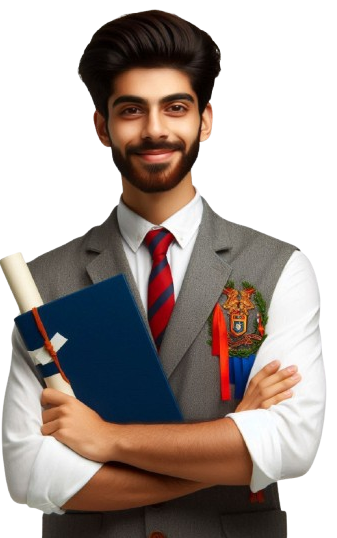
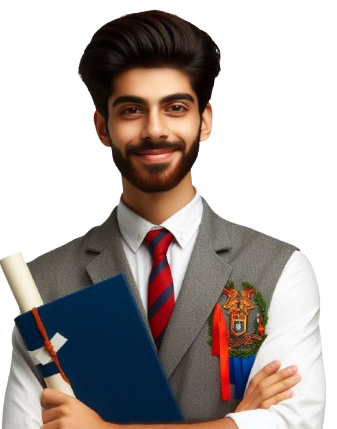
Add files via upload

diff --git a/index.html b/index.html
@@ -159,7 +159,7 @@ window._wpemojiSettings = {"baseUrl":"https:\/\/s.w.org\/images\/core\/emoji\/15
 			<div class="elementor-widget-wrap elementor-element-populated">
 						<div class="elementor-element elementor-element-2c443f22 elementor-widget elementor-widget-image" data-id="2c443f22" data-element_type="widget" data-widget_type="image.default">
 				<div class="elementor-widget-container">
-													<img fetchpriority="high" decoding="async" width="1080" height="1080" src="img/ai.png" class="attachment-full size-full wp-image-47" alt="" srcset="img/ai.png 1080w, img/ai.png 300w, img/ai.png 1024w, img/ai.png 150w, img/ai.png 768w" sizes="(max-width: 1080px) 100vw, 1080px" />													</div>
+													<img fetchpriority="high" decoding="async" width="1080" height="1080" src="https://i.ibb.co/0YKtB2b/model.png" class="attachment-full size-full wp-image-47" alt="" srcset="https://i.ibb.co/0YKtB2b/model.png 1080w, https://i.ibb.co/0YKtB2b/model.png 300w, https://i.ibb.co/0YKtB2b/model.png 1024w, https://i.ibb.co/0YKtB2b/model.png 150w, https://i.ibb.co/0YKtB2b/model.png 768w" sizes="(max-width: 1080px) 100vw, 1080px" />													</div>
 				</div>
 					</div>
 		</div>
@@ -174,7 +174,7 @@ window._wpemojiSettings = {"baseUrl":"https:\/\/s.w.org\/images\/core\/emoji\/15
 				<div class="elementor-element elementor-element-b3db787 eael-banner-button elementor-widget__width-auto elementor-widget elementor-widget-button" data-id="b3db787" data-element_type="widget" data-widget_type="button.default">
 				<div class="elementor-widget-container">
 					<div class="elementor-button-wrapper">
-			<a class="elementor-button elementor-button-link elementor-size-md" href="https://api.whatsapp.com/send/?phone=%2B919496466913&#038;text=🔍Hi%2C+we+want+to+book+a+demo+class&#038;type=phone_number&#038;app_absent=0">
+			<a class="elementor-button elementor-button-link elementor-size-md" href="https://api.whatsapp.com/send/?phone=%2B918807321683&#038;text=🔍Hi%2C+we+want+to+book+a+demo+class&#038;type=phone_number&#038;app_absent=0">
 						<span class="elementor-button-content-wrapper">
 									<span class="elementor-button-text">Book A DEMO</span>
 					</span>
@@ -190,12 +190,15 @@ window._wpemojiSettings = {"baseUrl":"https:\/\/s.w.org\/images\/core\/emoji\/15
 			<div class="elementor-widget-wrap elementor-element-populated">
 						<div class="elementor-element elementor-element-fdbddc3 elementor-widget elementor-widget-heading" data-id="fdbddc3" data-element_type="widget" data-widget_type="heading.default">
 				<div class="elementor-widget-container">
-			<span class="elementor-heading-title elementor-size-default">👉 Exclusively for Economics
-        .</span>		</div>
+			<span class="elementor-heading-title elementor-size-default">👉 Exclusively for Economics.</span>		</div>
 				</div>
+        <div class="elementor-element elementor-element-2036327 elementor-widget elementor-widget-heading" data-id="2036327" data-element_type="widget" data-widget_type="heading.default">
+          <div class="elementor-widget-container">
+        <span class="elementor-heading-title elementor-size-default">👉Live and recordes classes.</span>		</div>
+          </div>
 				<div class="elementor-element elementor-element-d91c891 elementor-widget elementor-widget-heading" data-id="d91c891" data-element_type="widget" data-widget_type="heading.default">
 				<div class="elementor-widget-container">
-			<span class="elementor-heading-title elementor-size-default">👉120+Results in the last three batches.</span>		</div>
+			<span class="elementor-heading-title elementor-size-default">👉120+ Successful results</span>		</div>
 				</div>
 				<div class="elementor-element elementor-element-f40e8f9 elementor-widget elementor-widget-heading" data-id="f40e8f9" data-element_type="widget" data-widget_type="heading.default">
 				<div class="elementor-widget-container">
@@ -205,10 +208,11 @@ window._wpemojiSettings = {"baseUrl":"https:\/\/s.w.org\/images\/core\/emoji\/15
 				<div class="elementor-widget-container">
 			<span class="elementor-heading-title elementor-size-default">👉Successful results in top universities.</span>		</div>
 				</div>
-				<div class="elementor-element elementor-element-2036327 elementor-widget elementor-widget-heading" data-id="2036327" data-element_type="widget" data-widget_type="heading.default">
-				<div class="elementor-widget-container">
-			<span class="elementor-heading-title elementor-size-default">👉Intelligent Personalised Mentorship.</span>		</div>
-				</div>
+        <div class="elementor-element elementor-element-f40e8f9 elementor-widget elementor-widget-heading" data-id="f40e8f9" data-element_type="widget" data-widget_type="heading.default">
+          <div class="elementor-widget-container">
+        <span class="elementor-heading-title elementor-size-default">👉Qualified faculties. </span>		</div>
+          </div>
+				
 					</div>
 		</div>
 					</div>
@@ -257,7 +261,7 @@ Trust</h2>		</div>
 				</div>
 					</div>
 				</div>
-		<!--<div class="elementor-element elementor-element-4374dd5 e-flex e-con-boxed e-con e-child" data-id="4374dd5" data-element_type="container">
+		<div class="elementor-element elementor-element-4374dd5 e-flex e-con-boxed e-con e-child" data-id="4374dd5" data-element_type="container">
 					<div class="e-con-inner">
 		<div class="elementor-element elementor-element-29ea0b8 e-grid e-con-boxed e-con e-child" data-id="29ea0b8" data-element_type="container">
 					<div class="e-con-inner">
@@ -267,25 +271,25 @@ Trust</h2>		</div>
 				</div>
 				<div class="elementor-element elementor-element-c7fc460 elementor-widget elementor-widget-heading" data-id="c7fc460" data-element_type="widget" data-widget_type="heading.default">
 				<div class="elementor-widget-container">
-			<h2 class="elementor-heading-title elementor-size-default">1500 + Teachers</h2>		</div>
+			<h2 class="elementor-heading-title elementor-size-default">2 + Teachers</h2>		</div>
 				</div>
 					</div>
 				</div>
 					</div>
-				</div>-->
-		<!--<div class="elementor-element elementor-element-3a309e8 e-grid e-con-boxed e-con e-child" data-id="3a309e8" data-element_type="container">
+				</div>
+		<div class="elementor-element elementor-element-3a309e8 e-grid e-con-boxed e-con e-child" data-id="3a309e8" data-element_type="container">
 					<div class="e-con-inner">
 				<div class="elementor-element elementor-element-cab9889 elementor-widget elementor-widget-image" data-id="cab9889" data-element_type="widget" data-widget_type="image.default">
 				<div class="elementor-widget-container">
-													<img loading="lazy" decoding="async" width="512" height="512" src="https://cbse.clapslearn.com/wp-content/uploads/2024/06/pin.png" class="attachment-large size-large wp-image-223" alt="" srcset="https://cbse.clapslearn.com/wp-content/uploads/2024/06/pin.png 512w, https://cbse.clapslearn.com/wp-content/uploads/2024/06/pin-300x300.png 300w, https://cbse.clapslearn.com/wp-content/uploads/2024/06/pin-150x150.png 150w" sizes="(max-width: 512px) 100vw, 512px" />													</div>
+          <img decoding="async" width="512" height="512" src="https://cbse.clapslearn.com/wp-content/uploads/2024/06/customer-satisfaction.png" class="attachment-large size-large wp-image-211" alt="" srcset="https://cbse.clapslearn.com/wp-content/uploads/2024/06/customer-satisfaction.png 512w, https://cbse.clapslearn.com/wp-content/uploads/2024/06/customer-satisfaction-300x300.png 300w, https://cbse.clapslearn.com/wp-content/uploads/2024/06/customer-satisfaction-150x150.png 150w" sizes="(max-width: 512px) 100vw, 512px" />													</div>
 				</div>
 				<div class="elementor-element elementor-element-f362b40 elementor-widget elementor-widget-heading" data-id="f362b40" data-element_type="widget" data-widget_type="heading.default">
 				<div class="elementor-widget-container">
-			<h2 class="elementor-heading-title elementor-size-default">12 + Countries</h2>		</div>
+			<h2 class="elementor-heading-title elementor-size-default">120+ Successful results</h2>		</div>
 				</div>
 					</div>
 				</div>
-					</div>-->
+      </div>
 				</div>
 				<section class="elementor-section elementor-top-section elementor-element elementor-element-24ab835d elementor-section-stretched elementor-section-boxed elementor-section-height-default elementor-section-height-default" data-id="24ab835d" data-element_type="section" id="skill_section" data-settings="{&quot;stretch_section&quot;:&quot;section-stretched&quot;,&quot;background_background&quot;:&quot;classic&quot;}">
 						<div class="elementor-container elementor-column-gap-no">
@@ -350,7 +354,7 @@ Trust</h2>		</div>
 				<div class="elementor-element elementor-element-ee4f6fb eael-banner-button elementor-widget__width-auto elementor-align-center elementor-mobile-align-center elementor-widget elementor-widget-button" data-id="ee4f6fb" data-element_type="widget" data-widget_type="button.default">
 				<div class="elementor-widget-container">
 					<div class="elementor-button-wrapper">
-			<a class="elementor-button elementor-button-link elementor-size-md" href="https://api.whatsapp.com/send/?phone=%2B919496466913&#038;text=🔍Hi%2C+we+want+to+know+more+about+CLAPS+Tuition&#038;type=phone_number&#038;app_absent=0">
+			<a class="elementor-button elementor-button-link elementor-size-md" href="https://api.whatsapp.com/send/?phone=%2B918807321683&#038;text=🔍Hi%2C+we+want+to+know+more+about+ECODEMICS+Tuition&#038;type=phone_number&#038;app_absent=0">
 						<span class="elementor-button-content-wrapper">
 									<span class="elementor-button-text">Whatsapp</span>
 					</span>
